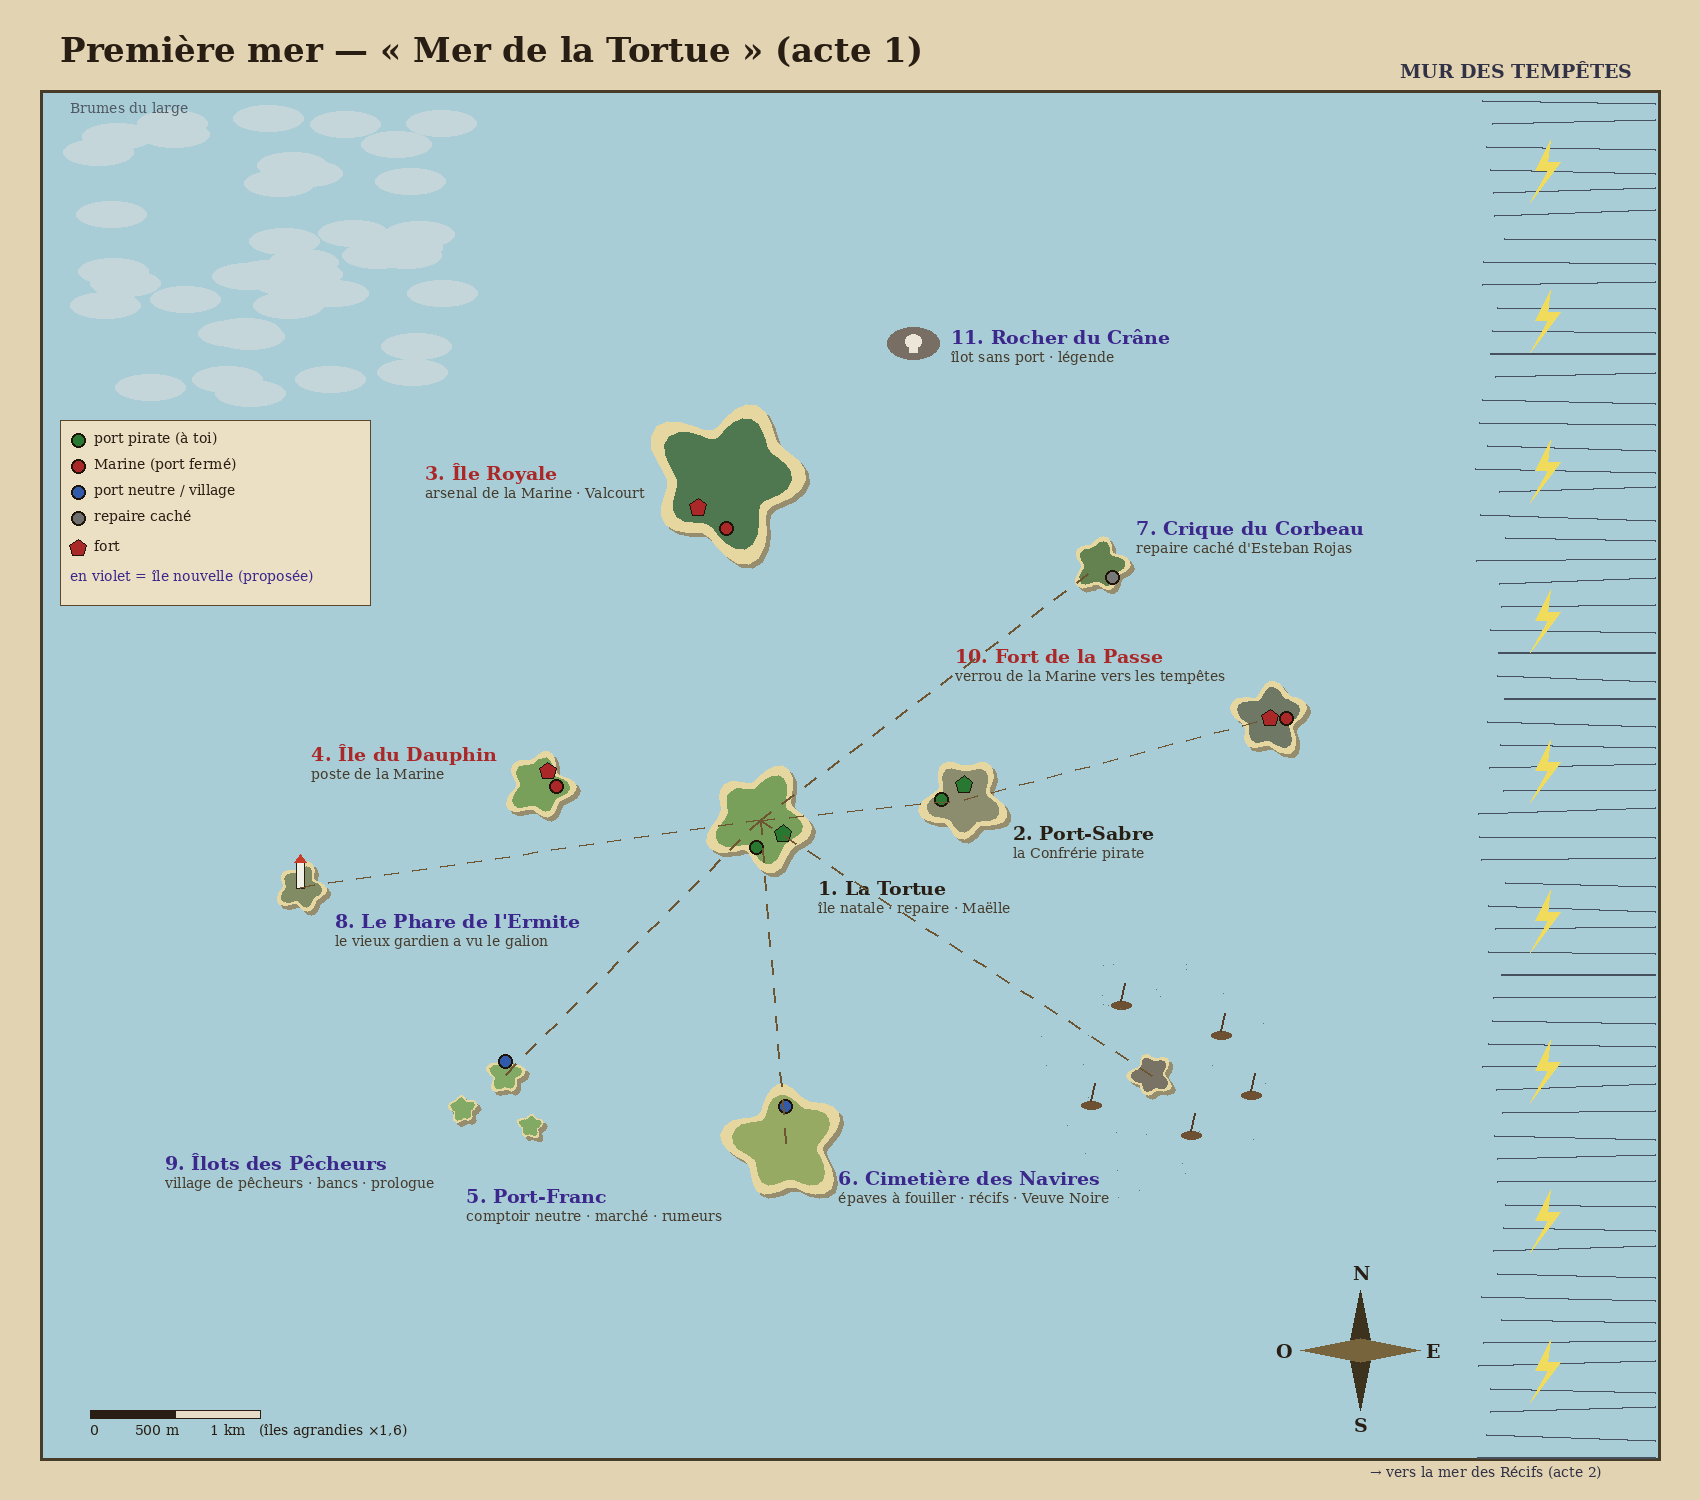
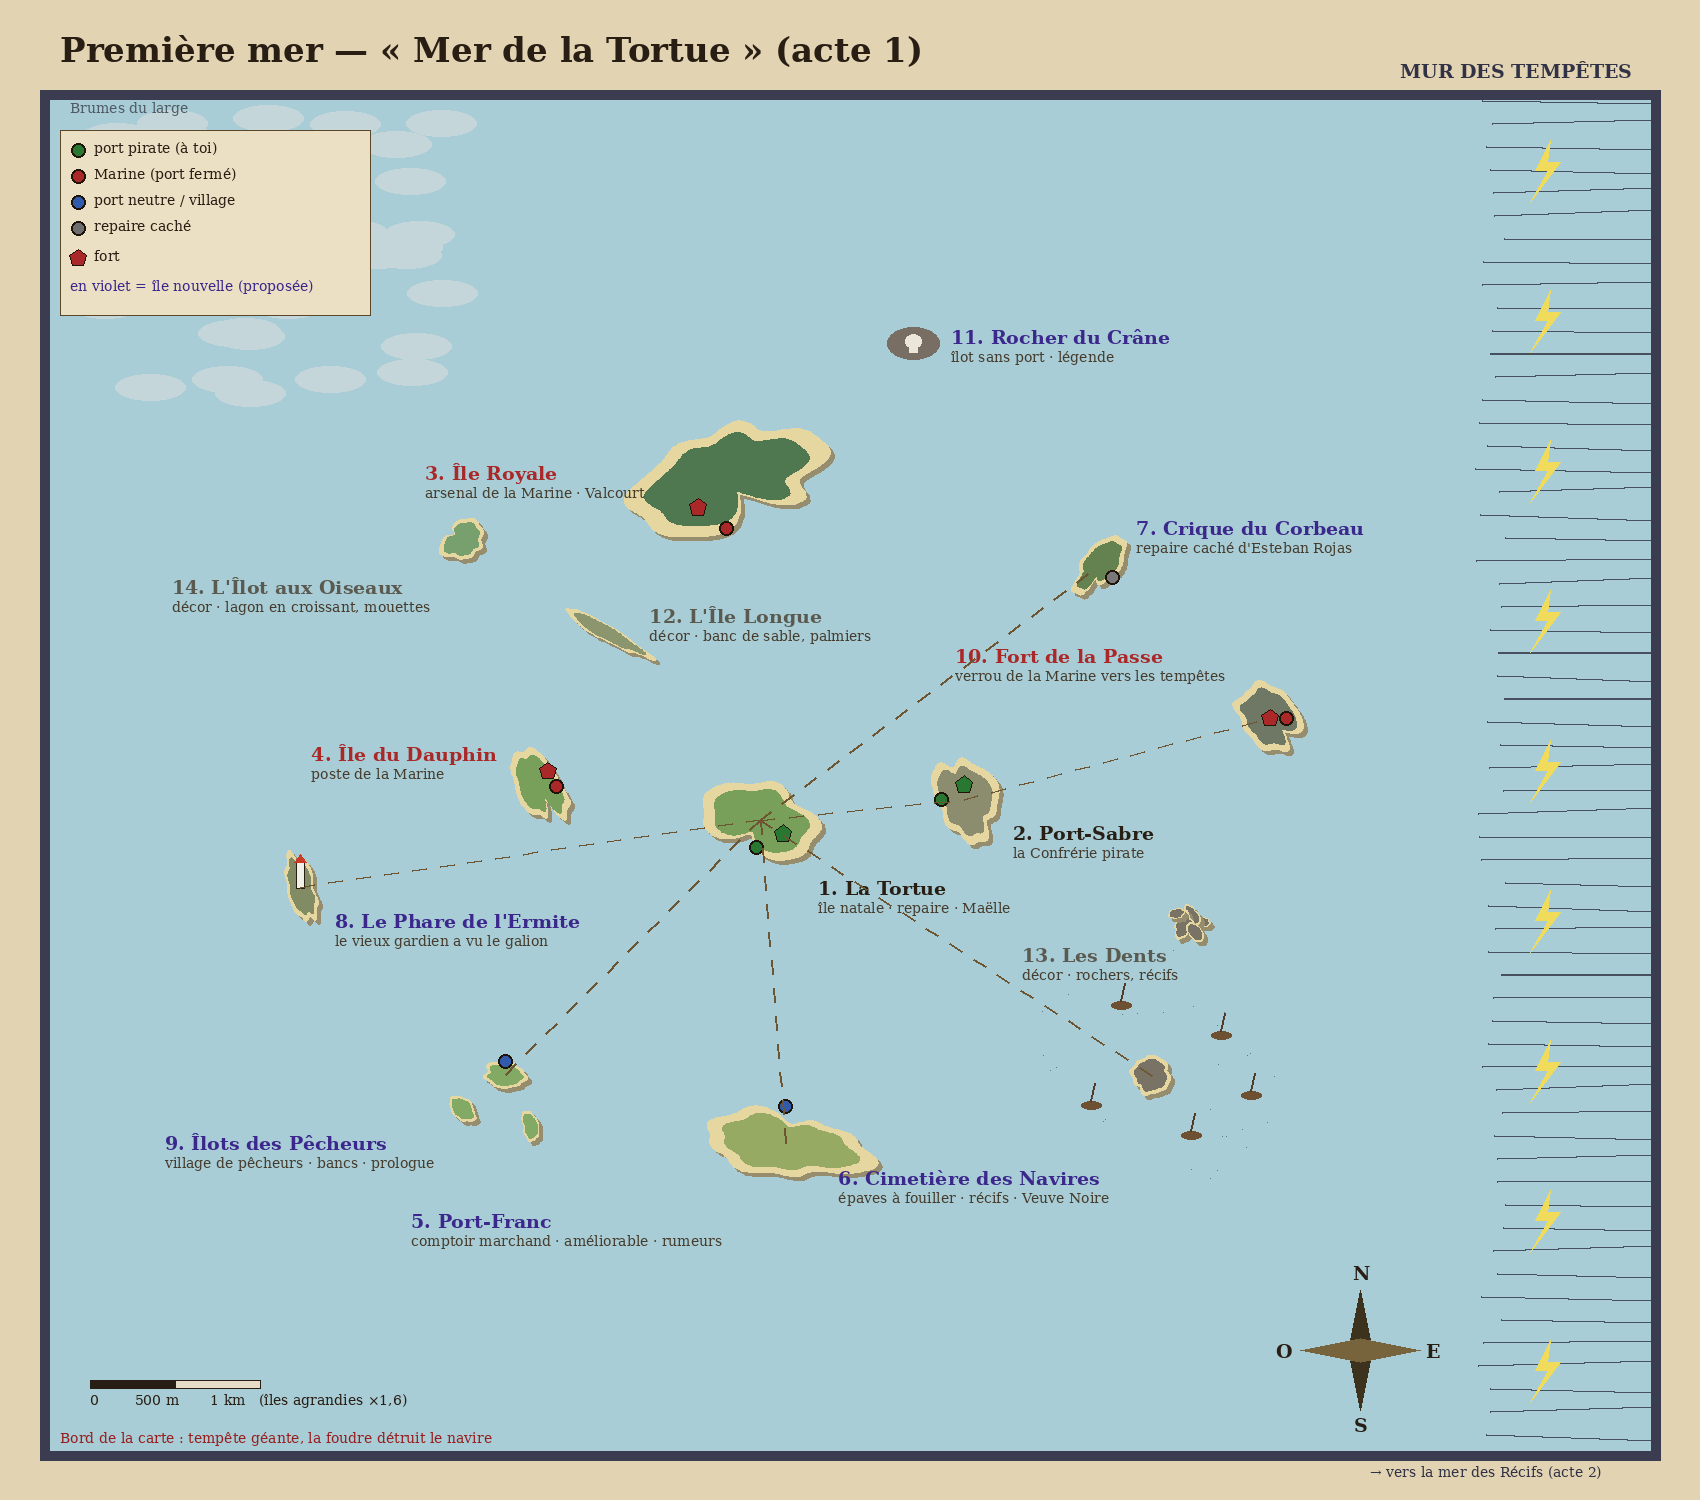
Trame : première mer v2 (formes naturelles, îlots de décor, tempête au bord)
Claude-Session: https://claude.ai/code/session_0148sztG4zdYcbBb5zN5z8cc

diff --git a/docs/STORY.md b/docs/STORY.md
@@ -36,8 +36,9 @@ Plan : `docs/plans/mer1-plan.png` (nord en haut ; +Z = nord, +X = ouest dans le 
   3. l'Île Royale (arsenal de la Marine, base de Valcourt, 2 km au nord) ; 4. l'Île du Dauphin (poste de la Marine,
   1,3 km à l'ouest).
 - **Nouveau, proposé** :
-  - 5. **Port-Franc** (~1,9 km au sud) : comptoir neutre, ni pirate ni Marine ; le meilleur marché et les rumeurs
-    (indices, contrats de commerce). On ne peut pas le prendre.
+  - 5. **Port-Franc** (~1,9 km au sud) : comptoir marchand, ni pirate ni Marine ; le meilleur marché et les rumeurs
+    (indices, contrats de commerce). On peut l'améliorer comme ses îles (plus tard, la carte montrera les zones qu'on
+    contrôle).
   - 6. **Le Cimetière des Navires** (~2,8 km au sud-est) : récifs semés d'épaves à fouiller (indices, butin) ; repaire
     de la Veuve Noire par gros temps.
   - 7. **La Crique du Corbeau** (~2,5 km au nord-est) : repaire caché d'Esteban Rojas, petit port pirate qu'on découvre
@@ -45,11 +46,20 @@ Plan : `docs/plans/mer1-plan.png` (nord en haut ; +Z = nord, +X = ouest dans le 
   - 8. **Le Phare de l'Ermite** (~2,7 km à l'ouest) : îlot sans port, un vieux gardien qui a vu passer le galion.
   - 9. **Les Îlots des Pêcheurs** (~2,2 km au sud-ouest) : village de pêcheurs, bancs de poissons, lieu du prologue.
   - 10. **Le Fort de la Passe** (~3 km à l'est) : îlot fortifié de la Marine qui verrouille la route du Mur des
-    tempêtes ; il faut l'abattre pour passer (fin de l'acte 1 ou début de l'acte 2).
+    tempêtes ; on peut l'abattre pour passer.
   - 11. **Le Rocher du Crâne** (~3 km au nord) : îlot sans port, lieu de légende (indice, rencontre fantôme).
-- **Bords** : le **Mur des tempêtes** à l'est (passage vers la mer des Récifs, acte 2) ; des brumes du large au nord-ouest.
-- Technique : plus d'îles = plus de travail pour le shader de l'eau (tableaux d'uniforms des îles) ; les petits îlots
-  sans port pourraient être du décor simple sans calme des vagues.
+  - **Décor** (sans grande importance) : 12. **l'Île Longue** (banc de sable étroit et palmiers, entre la Tortue et
+    l'Île Royale) ; 13. **les Dents** (chapelet de rochers et récifs près du Cimetière) ; 14. **l'Îlot aux Oiseaux**
+    (lagon en croissant, mouettes, au nord-ouest).
+- **Formes naturelles** : côtes irrégulières, îles étirées et tournées, criques ; jamais de rond parfait ni d'étoile.
+- **Bords** : le **Mur des tempêtes** à l'est (passage vers la mer des Récifs, acte 2) ; des brumes du large au
+  nord-ouest. **Tout autour de la carte, une tempête géante** : en approchant du bord, ciel noir, mer énorme, et des
+  éclairs qui frappent et **détruisent ton navire** si tu insistes.
+- Technique :
+  - les îles sans plage importante (Phare, Rocher du Crâne, décor) n'ont pas le calme des vagues ;
+  - la carte est grande : ce qui est loin ne doit coûter ni au rendu ni aux calculs (îles, décor, forts, navires et
+    leur IA au-delà de la brume : pas dessinés, mis à jour moins souvent ou en veille ; le shader de l'eau ne parcourt
+    que les îles proches).
 
 ## Acte 1 — « Les traces »
 L'archipel actuel (la Tortue, Port-Sabre, les îles de la Marine). On voyage d'île en île pour parler aux gens et
